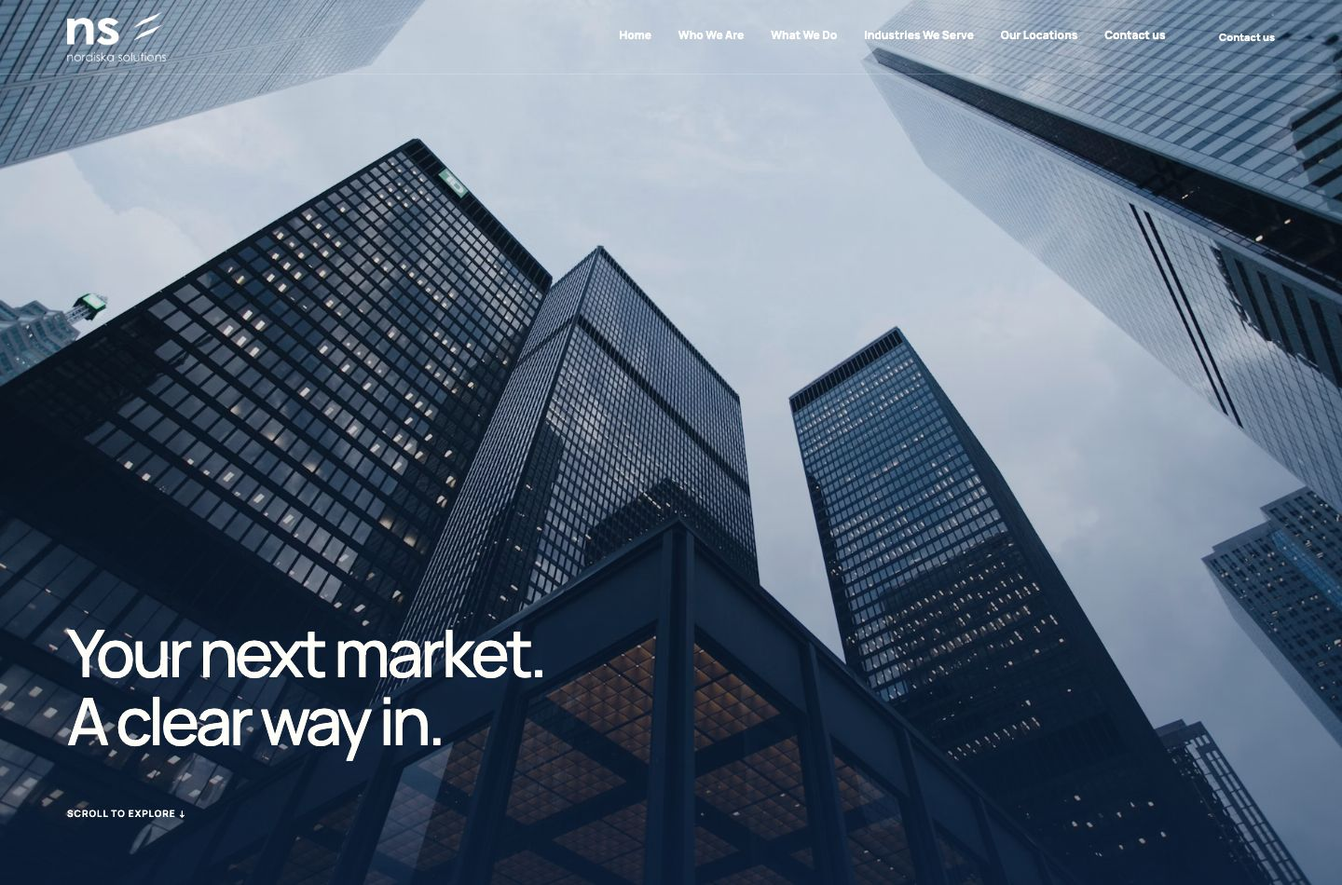
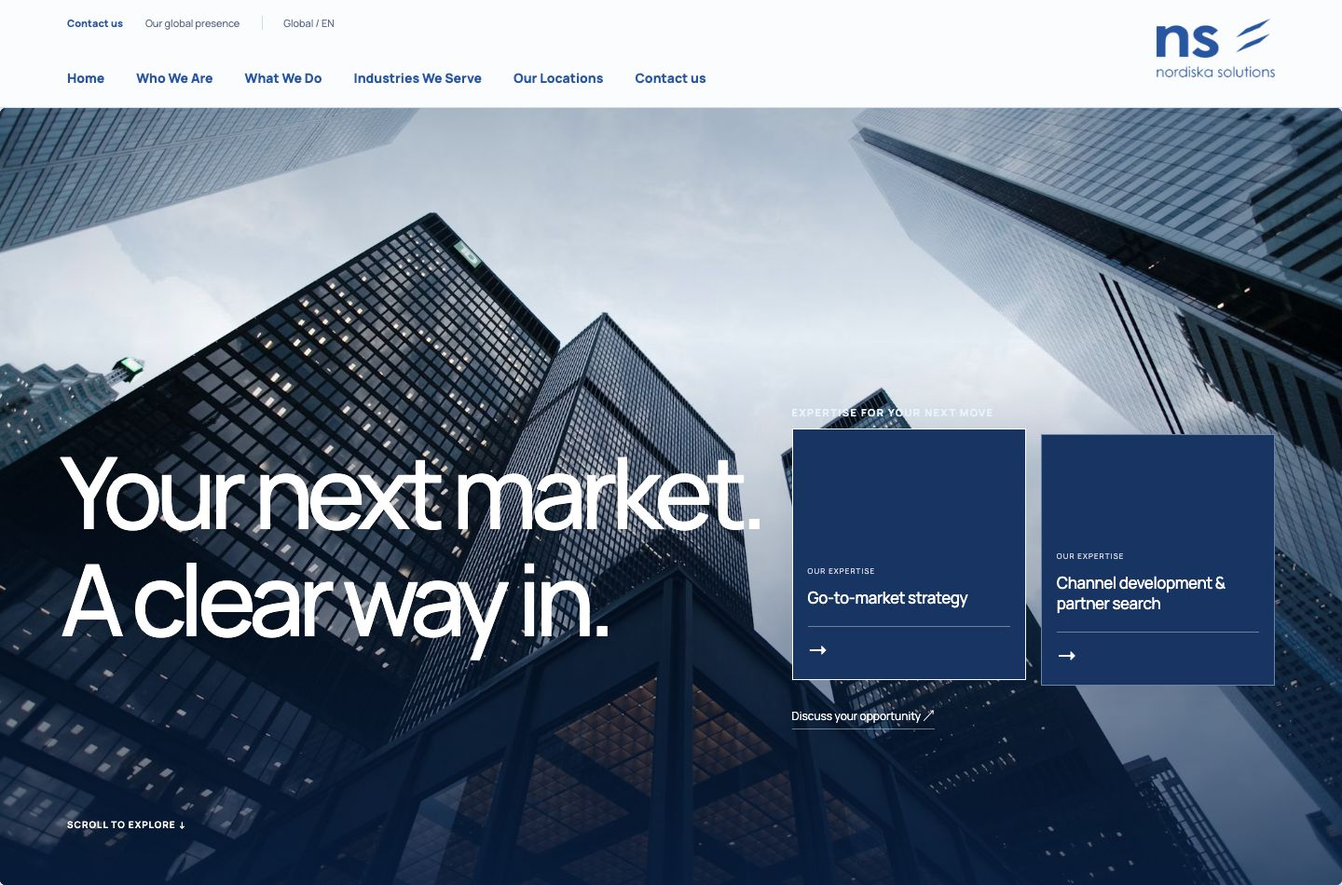
unified nav bar

diff --git a/src/scripts/main/signal-story-preview.js b/src/scripts/main/signal-story-preview.js
@@ -1,5 +1,5 @@
 import { withBase } from '../../utils/paths';
-import { bindMenuButtons } from './navigation';
+import { syncImageHeader } from '../concepts/image-header';
 import services from '../../data/services.json';
 import { servicePhotos } from '../../data/servicePhotos';
 import photos from '../../data/photos.json';
@@ -36,44 +36,15 @@ adaptation.textContent=`
 @media(max-height:740px) and (min-width:701px){:host .panel-signal .panel-copy{margin:18px 0;font-size:16px}:host .panel-signal .panel-label{margin-bottom:18px}}
 `;
 shadow.append(adaptation);
-const links=[['Home','/'],['Who We Are','/about/','about'],['What We Do','/services/','services'],['Industries We Serve','/industries/','industries'],['Our Locations','/locations/','locations'],['Contact us','/contact/']];
-const linkMarkup=links.map(([label,url,menu])=>menu?`<button type="button" data-menu="${menu}" aria-expanded="false" aria-controls="mega" aria-haspopup="dialog">${label}</button>`:`<a href="${withBase(url)}">${label}</a>`).join('');
-// Keep navigation outside the clipped, sticky orbit stage so it persists below it.
-const headerHost=document.createElement('div');
-headerHost.className='signal-fixed-header';
-const headerShadow=headerHost.attachShadow({mode:'open'});
-const headerStyles=document.createElement('style');
-headerStyles.textContent=`
-:host{position:fixed;inset:0 0 auto;z-index:60;display:block;font-family:Manrope,sans-serif}
-*{box-sizing:border-box}
-.topbar{position:relative;isolation:isolate;height:80px;color:white;background:transparent;border-bottom:1px solid transparent;transition:background .2s,color .2s,border-color .2s}
-.topbar::before{content:'';position:absolute;inset:0 0 -40px;z-index:-1;pointer-events:none;background:linear-gradient(180deg,rgba(16,43,83,.32) 0%,rgba(16,43,83,.18) 65%,rgba(16,43,83,0) 100%);transition:opacity .2s}
-.nav-inner{height:100%;width:100%;max-width:1440px;margin:0 auto;padding:0 var(--pad,clamp(22px,5vw,90px));display:flex;align-items:center;justify-content:space-between;gap:24px}
-a,button{color:inherit;text-decoration:none;touch-action:manipulation}
-button{font:inherit;background:none;border:0;padding:0;cursor:pointer}
-.brand{display:block;flex:none}.brand img{display:block;width:106px;height:55px;object-fit:contain;filter:brightness(0) invert(1)}
-.site-nav{display:flex;align-items:center;gap:clamp(16px,2.5vw,38px);font-size:12px;font-weight:500;text-shadow:0 1px 5px rgba(16,43,83,.24)}
-.site-nav a:hover,.site-nav button:hover{text-decoration:underline;text-underline-offset:5px}
-a:focus-visible,button:focus-visible{outline:2px solid currentColor;outline-offset:5px}
-.mobile-links{display:none}
-.topbar[data-expanded]{color:#2856a3;background:#eaf0f7;border-bottom-color:#bdcee2}
-.topbar[data-expanded]::before{opacity:0}
-.topbar[data-expanded] .site-nav{text-shadow:none}
-.topbar[data-expanded] .brand img{filter:brightness(0) saturate(100%) invert(29%) sepia(35%) saturate(1747%) hue-rotate(185deg) brightness(95%) contrast(91%)}
-:host([data-menu-open]) .topbar{color:#2856a3;background:#eaf0f7;border-bottom-color:#bdcee2}
-:host([data-menu-open]) .topbar::before{opacity:0}
-:host([data-menu-open]) .site-nav{text-shadow:none}
-:host([data-menu-open]) .brand img{filter:brightness(0) saturate(100%) invert(29%) sepia(35%) saturate(1747%) hue-rotate(185deg) brightness(95%) contrast(91%)}
-@media(max-width:850px){.site-nav{gap:14px;font-size:10px}}
-@media(max-width:700px){.topbar{height:65px}.site-nav{display:none}.brand img{width:96px;height:48px}.mobile-links{display:block;font-size:12px}.mobile-links summary{cursor:pointer;touch-action:manipulation}.mobile-links nav{position:absolute;top:65px;left:0;right:0;display:grid;background:#eaf0f7;color:#2856a3;border-bottom:1px solid #bdcee2;padding:12px var(--pad,22px);max-height:calc(100svh - 65px);overflow-y:auto}.mobile-links nav a{padding:12px 0;font-size:13px}}
-@media(prefers-reduced-motion:reduce){.topbar,.topbar::before{transition:none}}
-`;
-const fixedHeader=shadow.querySelector('.topbar');
-fixedHeader.innerHTML=`<div class="nav-inner"><a class="brand" href="${withBase('/')}" aria-label="Nordiska Solutions home"><img src="${withBase('/nordiska-logo.png')}" alt="Nordiska Solutions"></a><nav class="site-nav" aria-label="Main navigation">${linkMarkup}</nav><button type="button" class="mobile-links" data-menu="mobile" aria-expanded="false" aria-controls="mega" aria-haspopup="dialog">Menu ☰</button></div>`;
-headerShadow.append(headerStyles,fixedHeader);
-document.body.prepend(headerHost);
-bindMenuButtons(headerShadow);
-document.addEventListener('nordiska:menu-change',event=>headerHost.toggleAttribute('data-menu-open',event.detail.open));
+// All concepts use the current main site's shared navigation.
+shadow.querySelector('.topbar').remove();
+const pageHeader=document.querySelector('header');
+const syncHeaderHeight=()=>{
+ explorer.style.setProperty('--sticky-top',document.body.classList.contains('concept-image-overlay')?'0px':pageHeader.offsetHeight+'px');
+ explorer.request();
+};
+new ResizeObserver(syncHeaderHeight).observe(pageHeader);
+syncHeaderHeight();
 
 // Nordiska interaction layer: keep the supplied Signal presentation and add
 // the original homepage's click-to-full-screen behavior and contextual links.
@@ -110,7 +81,7 @@ explorer.select=i=>{
  const count=explorer.items.length;
  explorer._base=Math.round(explorer.position+((i-explorer.position+count/2)%count+count)%count-count/2);
  explorer._opening=true;
- window.scrollTo({top:explorer.getBoundingClientRect().top+scrollY,behavior:'instant'});
+ window.scrollTo({top:explorer.getBoundingClientRect().top+scrollY-(parseFloat(getComputedStyle(explorer.stage).top)||0),behavior:'instant'});
  explorer.request();
 };
 explorer.cards.forEach((card,i)=>{card.onclick=()=>explorer.select(i);card.setAttribute('aria-label',`View ${items[i].name} full screen`)});
@@ -134,7 +105,8 @@ const mix=(a,b,t)=>a+(b-a)*t;
 explorer.render=function(now){
  this.frame=0;
  const w=this.stage.clientWidth,h=this.stage.clientHeight,mobile=w<=700;
- const travel=Math.max(1,this.track.offsetHeight-h),p=clamp(-this.track.getBoundingClientRect().top/travel);
+ const stickyTop=parseFloat(getComputedStyle(this.stage).top)||0;
+ const travel=Math.max(1,this.track.offsetHeight-h),p=clamp((stickyTop-this.track.getBoundingClientRect().top)/travel);
  // Same exit-speed easing as the original homepage's renderOrbit.
  const desktopOrbit=w>760&&!this.reduce.matches;
  const slowdownDistance=positioning?Math.max(1,h+positioning.offsetHeight*.85):1;
@@ -156,7 +128,6 @@ explorer.render=function(now){
  const zoom=this.zoom,details=clamp((zoom-.6)/.38),intro=clamp(1-zoom*2.5);
  this.stage.style.setProperty('--details',details);this.stage.style.setProperty('--intro',intro);this.stage.style.setProperty('--bar',zoom);this.stage.style.setProperty('--progress',(p*100)+'%');
  this.stage.toggleAttribute('data-expanded',zoom>.12);
- fixedHeader.toggleAttribute('data-expanded',zoom>.12||this.track.getBoundingClientRect().bottom<=h);
  this.left.classList.toggle('ready',details>.01);this.left.inert=details<.7;
  this.nav.classList.toggle('ready',details>.01);this.nav.inert=details<.7;
  for(const selector of ['.intro-meta','.teaser']){this.q(selector).inert=intro<.5;this.q(selector).style.visibility=intro===0?'hidden':'visible'}
@@ -190,6 +161,7 @@ explorer.render=function(now){
   }
   const visible=Math.abs(d)<2.2&&(!mobile||selected||zoom<.4);card.style.visibility=visible?'visible':'hidden';card.tabIndex=visible&&selected?0:-1;
  });
+ syncImageHeader(this.cards[nearest]);
  if(this.position!==target||this.zoom!==z)this.request();
 };
 const refinements=document.createElement('style');

diff --git a/src/scripts/signal-preview.js b/src/scripts/signal-preview.js
@@ -24,40 +24,15 @@ adaptation.textContent=`
 @container(max-width:700px){:host .panel-signal .panel-copy{display:block;font-size:14px;line-height:1.7;margin:12px 0}:host .panel-signal .panel-action{position:static}}
 `;
 shadow.append(adaptation);
-const links=[['Home','/'],['Who We Are','/about/'],['What We Do','/services/'],['Industries We Serve','/industries/'],['Our Locations','/locations/'],['Contact us','/contact/']];
-const linkMarkup=links.map(([label,url])=>`<a href="${withBase(url)}">${label}</a>`).join('');
-// Keep navigation outside the clipped, sticky orbit stage so it persists below it.
-const headerHost=document.createElement('div');
-headerHost.className='signal-fixed-header';
-const headerShadow=headerHost.attachShadow({mode:'open'});
-const headerStyles=document.createElement('style');
-headerStyles.textContent=`
-:host{position:fixed;inset:0 0 auto;z-index:60;display:block;font-family:Manrope,sans-serif}
-*{box-sizing:border-box}
-.topbar{position:relative;isolation:isolate;height:80px;color:white;background:transparent;border-bottom:1px solid transparent;transition:background .2s,color .2s,border-color .2s}
-.topbar::before{content:'';position:absolute;inset:0 0 -40px;z-index:-1;pointer-events:none;background:linear-gradient(180deg,rgba(16,43,83,.32) 0%,rgba(16,43,83,.18) 65%,rgba(16,43,83,0) 100%);transition:opacity .2s}
-.nav-inner{height:100%;width:100%;max-width:1440px;margin:0 auto;padding:0 var(--pad,clamp(22px,5vw,90px));display:flex;align-items:center;justify-content:space-between;gap:24px}
-a{color:inherit;text-decoration:none;touch-action:manipulation}
-.brand{display:block;flex:none}.brand img{display:block;width:106px;height:55px;object-fit:contain;filter:brightness(0) invert(1)}
-.site-nav{display:flex;align-items:center;gap:clamp(16px,2.5vw,38px);font-size:12px;font-weight:500;text-shadow:0 1px 5px rgba(16,43,83,.24)}
-.site-nav a:hover{text-decoration:underline;text-underline-offset:5px}
-a:focus-visible,summary:focus-visible{outline:2px solid currentColor;outline-offset:5px}
-.mobile-links{display:none}
-.topbar[data-expanded]{color:#2856a3;background:#eaf0f7;border-bottom-color:#bdcee2}
-.topbar[data-expanded]::before{opacity:0}
-.topbar[data-expanded] .site-nav{text-shadow:none}
-.topbar[data-expanded] .brand img{filter:brightness(0) saturate(100%) invert(29%) sepia(35%) saturate(1747%) hue-rotate(185deg) brightness(95%) contrast(91%)}
-@media(max-width:850px){.site-nav{gap:14px;font-size:10px}}
-@media(max-width:700px){.topbar{height:65px}.site-nav{display:none}.brand img{width:96px;height:48px}.mobile-links{display:block;font-size:12px}.mobile-links summary{cursor:pointer;touch-action:manipulation}.mobile-links nav{position:absolute;top:65px;left:0;right:0;display:grid;background:#eaf0f7;color:#2856a3;border-bottom:1px solid #bdcee2;padding:12px var(--pad,22px);max-height:calc(100svh - 65px);overflow-y:auto}.mobile-links nav a{padding:12px 0;font-size:13px}}
-@media(prefers-reduced-motion:reduce){.topbar,.topbar::before{transition:none}}
-`;
-const fixedHeader=shadow.querySelector('.topbar');
-fixedHeader.innerHTML=`<div class="nav-inner"><a class="brand" href="${withBase('/')}" aria-label="Nordiska Solutions home"><img src="${withBase('/nordiska-logo.png')}" alt="Nordiska Solutions"></a><nav class="site-nav" aria-label="Main navigation">${linkMarkup}</nav><details class="mobile-links"><summary>Menu ☰</summary><nav aria-label="Mobile navigation">${linkMarkup}</nav></details></div>`;
-headerShadow.append(headerStyles,fixedHeader);
-document.body.prepend(headerHost);
-const mobileMenu=headerShadow.querySelector('.mobile-links');
-mobileMenu.addEventListener('click',event=>{if(event.target.closest('a'))mobileMenu.open=false});
-mobileMenu.addEventListener('keydown',event=>{if(event.key==='Escape'){mobileMenu.open=false;mobileMenu.querySelector('summary').focus()}});
+// All concepts use the current main site's shared navigation.
+shadow.querySelector('.topbar').remove();
+const pageHeader=document.querySelector('header');
+const syncHeaderHeight=()=>{
+ explorer.style.setProperty('--sticky-top',pageHeader.offsetHeight+'px');
+ explorer.request();
+};
+new ResizeObserver(syncHeaderHeight).observe(pageHeader);
+syncHeaderHeight();
 
 // Nordiska interaction layer: keep the supplied Signal presentation and add
 // the original homepage's click-to-full-screen behavior and contextual links.
@@ -90,7 +65,7 @@ explorer.select=i=>{
  const count=explorer.items.length;
  explorer._base=Math.round(explorer.position+((i-explorer.position+count/2)%count+count)%count-count/2);
  explorer._opening=true;
- window.scrollTo({top:explorer.getBoundingClientRect().top+scrollY,behavior:'instant'});
+ window.scrollTo({top:explorer.getBoundingClientRect().top+scrollY-(parseFloat(getComputedStyle(explorer.stage).top)||0),behavior:'instant'});
  explorer.request();
 };
 explorer.cards.forEach((card,i)=>{card.onclick=()=>explorer.select(i);card.setAttribute('aria-label',`View ${items[i].name} full screen`)});
@@ -114,7 +89,8 @@ const mix=(a,b,t)=>a+(b-a)*t;
 explorer.render=function(now){
  this.frame=0;
  const w=this.stage.clientWidth,h=this.stage.clientHeight,mobile=w<=700;
- const travel=Math.max(1,this.track.offsetHeight-h),p=clamp(-this.track.getBoundingClientRect().top/travel);
+ const stickyTop=parseFloat(getComputedStyle(this.stage).top)||0;
+ const travel=Math.max(1,this.track.offsetHeight-h),p=clamp((stickyTop-this.track.getBoundingClientRect().top)/travel);
  // Same exit-speed easing as the original homepage's renderOrbit.
  const desktopOrbit=w>760&&!this.reduce.matches;
  const slowdownDistance=positioning?Math.max(1,h+positioning.offsetHeight*.85):1;
@@ -136,7 +112,6 @@ explorer.render=function(now){
  const zoom=this.zoom,details=clamp((zoom-.6)/.38),intro=clamp(1-zoom*2.5);
  this.stage.style.setProperty('--details',details);this.stage.style.setProperty('--intro',intro);this.stage.style.setProperty('--bar',zoom);this.stage.style.setProperty('--progress',(p*100)+'%');
  this.stage.toggleAttribute('data-expanded',zoom>.12);
- fixedHeader.toggleAttribute('data-expanded',zoom>.12||this.track.getBoundingClientRect().bottom<=h);
  this.left.classList.toggle('ready',details>.01);this.left.inert=details<.7;
  this.nav.classList.toggle('ready',details>.01);this.nav.inert=details<.7;
  for(const selector of ['.intro-meta','.teaser']){this.q(selector).inert=intro<.5;this.q(selector).style.visibility=intro===0?'hidden':'visible'}

diff --git a/src/styles/concepts/photography-hero.css b/src/styles/concepts/photography-hero.css
@@ -1,0 +1,49 @@
+/* Image-card treatment only. Navigation comes from the shared main Header. */
+.hero-preview .hero-fullscreen-copy{ position:absolute; z-index:4; left:var(--pad); top:48%; transform:translateY(-15%); width:40%; max-width:650px; color:white; opacity:var(--preview-copy-opacity,1); pointer-events:none; }
+.hero-preview .hero-fullscreen-copy h1{ font-size:clamp(42px,5.1vw,82px); line-height:1.04; font-weight:500; letter-spacing:-.05em; margin:0 0 24px; color:white; }
+.hero-preview .hero-fullscreen-copy p{ max-width:420px; font-size:clamp(13px,1.1vw,16px); line-height:1.85; color:#f1f6fc; margin:0; }
+.hero-preview .preview-scroll-hint{ display:block; margin-top:32px; font-size:10px; font-weight:700; letter-spacing:.1em; text-transform:uppercase; }
+.hero-preview .deck-card::after{ background:linear-gradient(90deg,#0b234780,transparent 75%),linear-gradient(0deg,#102a4950,transparent 60%); }
+.hero-preview .deck-card strong{ opacity:var(--preview-image-slogan-opacity,0); }
+.hero-preview .deck-heading,.hero-preview .deck-index{ display:none; }
+.hero-preview .deck-story h2{ font-size:clamp(30px,3.3vw,54px); letter-spacing:-.025em; font-weight:600; }
+.hero-preview .hero-service-cards .service-card{ height:clamp(210px,23vw,270px); }
+.hero-preview .hero-service-cards .service-card .card-copy{ left:16px; right:16px; bottom:16px; }
+.hero-preview .hero-service-cards .service-card h3{ font-size:clamp(17px,7cqw,21px); }
+.hero-preview .hero-service-cards{ gap:16px; }
+.hero-preview .hero-service-cards .service-card small{ font-size:8px; }
+@media(min-width:761px) and (prefers-reduced-motion:no-preference){.hero-preview .hero{ top:0; height:100svh; }
+.hero-preview .hero-value{ width:36%; bottom:18%; }
+.hero-preview .hero-value:has(.single){ width:calc(18% - 8px); }
+.hero-preview .deck-story{ top:52%; width:29%; }}
+@media(max-width:760px),(prefers-reduced-motion:reduce){.hero-preview .hero-track{ height:auto; }
+.hero-preview .hero{ top:0; min-height:0; }
+.hero-preview .hero-images{ height:100svh; min-height:600px; }
+.hero-preview .hero-fullscreen-copy{ position:relative; left:auto; top:auto; transform:none; width:auto; max-width:none; min-height:100svh; padding:170px var(--pad) 70px; display:flex; flex-direction:column; justify-content:flex-end; }
+.hero-preview .hero-fullscreen-copy h1{ font-size:clamp(40px,8vw,70px); max-width:650px; }
+.hero-preview .hero-fullscreen-copy p{ max-width:550px; }
+.hero-preview .hero-deck{ margin-top:0; }
+.hero-preview .deck-story{ display:block; position:relative; inset:auto; transform:none; width:auto; max-width:none; padding:25px var(--pad); opacity:1; }
+.hero-preview .deck-story h2{ font-size:30px; }
+.hero-preview .deck-story p{ font-size:14px; line-height:1.8; color:var(--muted); }
+.hero-preview .story-link{ display:inline-flex; }
+.hero-preview .deck-card strong{ display:block; position:absolute; z-index:1; bottom:16px; left:15px; right:15px; color:white; font-size:16px; line-height:1.15; font-weight:500; max-width:none; text-align:left; opacity:1; }
+.hero-preview .deck-arrow{ display:none; }}
+.hero-preview .deck-card::after{ background:linear-gradient(180deg,#112f5044,transparent 30%,#09244bba); }
+.hero-preview .deck-card img{ filter:saturate(.65); }
+.hero-preview .deck-card strong{ font-weight:500; line-height:1.08; letter-spacing:-.065em; }
+@media(min-width:761px) and (prefers-reduced-motion:no-preference){.hero-preview .deck-card{ box-shadow:0 20px 60px #0002; }
+.hero-preview .hero-fullscreen-copy{ top:auto; bottom:7%; transform:none; width:40%; }
+.hero-preview .hero-fullscreen-copy h1{ position:absolute; width:1px; height:1px; padding:0; margin:-1px; overflow:hidden; clip-path:inset(50%); white-space:nowrap; }
+.hero-preview .hero-fullscreen-copy p{ max-width:420px; line-height:1.65; }
+.hero-preview .preview-scroll-hint{ margin-top:18px; }}
+.hero-preview .hero-fullscreen-copy p{ display:none; }
+.hero-preview .slogan-line{ display:block; white-space:nowrap; }
+@media(min-width:761px) and (prefers-reduced-motion:no-preference){.hero-preview .deck-card,
+  .hero-preview .deck-card.active,
+  .hero-preview .deck-card:hover:not(.active){ box-shadow:0 20px 60px #0002; }
+.hero-preview .deck-card strong{ max-width:none; right:auto; }}
+@media(max-width:760px),(prefers-reduced-motion:reduce){.hero-preview .deck-card{ container-type:inline-size; box-shadow:0 20px 60px #0002; }
+.hero-preview .deck-card strong{ font-size:clamp(10px,7.5cqw,16px); }
+.hero-preview .hero-fullscreen-copy h1{ font-size:clamp(30px,8.8vw,70px); }}
+@media(min-width:761px) and (prefers-reduced-motion:no-preference){.hero-preview .hero{top:0;height:100svh;max-height:none}}

diff --git a/src/styles/concepts.css b/src/styles/concepts.css
@@ -1,5 +1,10 @@
 @import url('https://fonts.googleapis.com/css2?family=IBM+Plex+Mono:wght@400;500&family=Manrope:wght@400;500;600;700&display=swap');
 .home-concept{background:#eaf0f7}
+.concept-image-overlay>header{position:fixed;inset:0 0 auto;width:100%;transition:background-color .2s,border-color .2s}
+.concept-image-overlay[data-image-cover]:not(.menu-open)>header{background:linear-gradient(180deg,#071d3670,transparent);border-color:transparent;color:white}
+.concept-image-overlay[data-image-cover]:not(.menu-open)>header :is(.nav,.nav a,.nav button,.utility,.utility a,.utility span,.mobile-menu){color:white}
+.concept-image-overlay[data-image-cover]:not(.menu-open)>header .brand img{filter:brightness(0) invert(1);opacity:1}
+.concept-image-overlay.menu-open .concept-navigation{visibility:hidden}
 .concept-sr{position:absolute;width:1px;height:1px;overflow:hidden;clip-path:inset(50%)}
 .concept-advantage{scroll-margin-top:116px}
 .concept-navigation{position:fixed;bottom:18px;left:50%;transform:translateX(-50%);z-index:50;display:flex;align-items:center;gap:22px;padding:13px 20px;border:1px solid #bdcee2;border-radius:40px;background:#fbfcfef5;box-shadow:0 6px 25px #17346215;font-size:11px;line-height:1.5;white-space:nowrap;color:#2856a3}
@@ -9,5 +14,4 @@
 .concept-current{display:flex;gap:10px;align-items:center;padding-right:22px;border-right:1px solid #bdcee2;color:#17385d}
 .concept-current>span{font-size:10px;color:#58708c}
 .home-concept footer{padding-bottom:110px}
-.home-concept:has(.signal-fixed-header)>.mega{top:80px;z-index:55}
-@media(max-width:700px){.home-concept:has(.signal-fixed-header)>.mega{top:65px}.concept-navigation{width:calc(100% - 28px);gap:15px;padding:10px 16px;justify-content:space-between;flex-wrap:wrap;border-radius:18px;bottom:12px;font-size:11px}.concept-current{width:100%;padding:0;border:0;justify-content:center}.concept-advantage{scroll-margin-top:80px}.home-concept footer{padding-bottom:145px}}
+@media(max-width:700px){.concept-navigation{width:calc(100% - 28px);gap:15px;padding:10px 16px;justify-content:space-between;flex-wrap:wrap;border-radius:18px;bottom:12px;font-size:11px}.concept-current{width:100%;padding:0;border:0;justify-content:center}.concept-advantage{scroll-margin-top:80px}.home-concept footer{padding-bottom:145px}}

diff --git a/src/data/homeConcepts.ts b/src/data/homeConcepts.ts
@@ -2,7 +2,7 @@ export const homeConcepts = [
  { visible:true, slug:'original-design', name:'Original Design', description:'The original homepage direction: a Nordic landscape opening, expanding service cards and the original Nordiska Advantage.', hero:'original', legacy:null },
  { visible:true, slug:'immersive-photography', name:'Immersive Photography', description:'A photography-led opening with fullscreen images and expanding service cards.', hero:'photography', legacy:'hero' },
  { visible:false, slug:'service-explorer', name:'Service Explorer', description:'An interactive orbit with direct routes into Nordiska’s services and industries.', hero:'signal', legacy:'signal' },
- { visible:false, slug:'expertise-in-motion', name:'Expertise in Motion', description:'A detailed introduction to Nordiska’s capabilities, combining moving imagery with practical explanations.', hero:'story', legacy:'signal-story' },
+ { visible:true, slug:'expertise-in-motion', name:'Expertise in Motion', description:'A detailed introduction to Nordiska’s capabilities, combining moving imagery with practical explanations.', hero:'story', legacy:'signal-story' },
  { visible:false, slug:'brand-highlights', name:'Brand Highlights', description:'A concise introduction through four themes: opportunity, connections, progress and expertise.', hero:'highlights', legacy:'signal-highlights' },
  { visible:true, slug:'the-nordiska-story', name:'The Nordiska Story', description:'One connected story, from Nordic innovation to international opportunity and practical progress.', hero:'narrative', legacy:'signal-narrative' },
  { visible:true, slug:'cleantech-growth', name:'Cleantech Growth', description:'A direct introduction to Nordiska’s role in helping cleantech companies grow internationally.', hero:'focused', legacy:'signal-focused' },

diff --git a/src/scripts/concepts/photography-hero.js b/src/scripts/concepts/photography-hero.js
@@ -1,4 +1,5 @@
 import { withBase } from '../../utils/paths';
+import { syncImageHeader } from './image-header';
 const serviceRoutes=['/services/go-to-market-strategy/','/services/partner-search/','/services/market-activation/','/services/','/services/application-consultancy/','/services/on-site-training/','/services/aftersales-services/','/services/market-entry-strategy/'].map(withBase);
 
 const $=s=>document.querySelector(s), $$=s=>[...document.querySelectorAll(s)];
@@ -98,6 +99,7 @@ function renderOrbit(now){
   document.body.classList.toggle('hero-preview-cover',hero.getBoundingClientRect().top>=-80);
   $('.hero-fullscreen-copy').inert=false;
   $('.hero-fullscreen-copy').style.visibility='visible';
+  syncImageHeader($('.hero-images'));
   return;
  }
  const h=hero.clientHeight,w=hero.clientWidth,top=parseFloat(getComputedStyle(hero).top)||0;
@@ -170,6 +172,7 @@ function renderOrbit(now){
   b.style.visibility=visible?'visible':'hidden';b.style.pointerEvents=visible?'auto':'none';
   b.tabIndex=visible&&(zoom>.85||selected)?0:-1;
  });
+ syncImageHeader(orbitCards[slide]);
  if(Math.abs(targetPosition-orbitPosition)>.0005||Math.abs(targetZoom-zoom)>.0005||opening)requestOrbit();
 }
 addEventListener('scroll',requestOrbit,{passive:true});addEventListener('resize',requestOrbit);

diff --git a/src/scripts/concepts/image-header.js b/src/scripts/concepts/image-header.js
@@ -1,0 +1,8 @@
+// Keep the shared header white only while a full-width photo covers it.
+export function syncImageHeader(image) {
+ const body = document.body;
+ if (!body.classList.contains('concept-image-overlay') || !image) return;
+ const bounds = image.getBoundingClientRect();
+ const header = document.querySelector('header');
+ body.toggleAttribute('data-image-cover', bounds.top <= 1 && bounds.left <= 1 && bounds.right >= document.documentElement.clientWidth - 1 && bounds.bottom >= header.offsetHeight);
+}

diff --git a/docs/site-versions.md b/docs/site-versions.md
@@ -49,7 +49,7 @@ Main service cards share `components/main/JourneyServiceCard.astro`, `styles/mai
 
 The concept catalogue is `src/data/homeConcepts.ts`. Client-facing names and URLs are:
 
-The client gallery and Previous/Next navigation show only Original Design, Immersive Photography, The Nordiska Story and Cleantech Growth, numbered 01–04. Visibility is controlled by each catalogue entry's `visible` flag. Service Explorer, Expertise in Motion and Brand Highlights remain available by direct URL for internal reference.
+The client gallery and Previous/Next navigation show Original Design, Immersive Photography, Expertise in Motion, The Nordiska Story and Cleantech Growth, numbered 01–05. Visibility is controlled by each catalogue entry's `visible` flag. Service Explorer and Brand Highlights remain available by direct URL for internal reference.
 
 | Name | URL | Former URL |
 | --- | --- | --- |
@@ -64,3 +64,5 @@ The client gallery and Previous/Next navigation show only Original Design, Immer
 Original Design reuses the original opening and Advantage treatment above the current shared homepage content. It is distinct from the full preserved Classic site. Classic files are unchanged.
 
 Update shared homepage content in `components/main/HomeContent.astro` and its imported main components. Concept-specific legacy hero scripts intentionally do not rewrite the shared industry section. The gallery uses actual captured hero screenshots in `public/concepts/`. Concept pages carry noindex metadata.
+
+All concepts use the current main Header and its full-screen menus. Expertise in Motion retains its orbit image-card animation and fullscreen selection; Immersive Photography retains its expanding photographic cards. Their hero geometry accounts for the shared header height.

diff --git a/README.md b/README.md
@@ -2,7 +2,7 @@
 
 A static, multipage Astro site with the redesigned main version at `/`, the previous full site at `/classic/`, and retained design experiments at `/preview/`.
 
-The client-facing homepage comparison gallery is at `/concepts/`. It presents four selected concepts; three additional concepts remain available by direct URL for internal reference. All concepts share the current homepage below the hero and Nordiska Advantage sections. Previous hero-preview URLs redirect to their corresponding concept pages.
+The client-facing homepage comparison gallery is at `/concepts/`. It presents five selected concepts; two additional concepts remain available by direct URL for internal reference. All concepts share the current homepage below the hero and Nordiska Advantage sections. Previous hero-preview URLs redirect to their corresponding concept pages.
 
 ## Run
 
